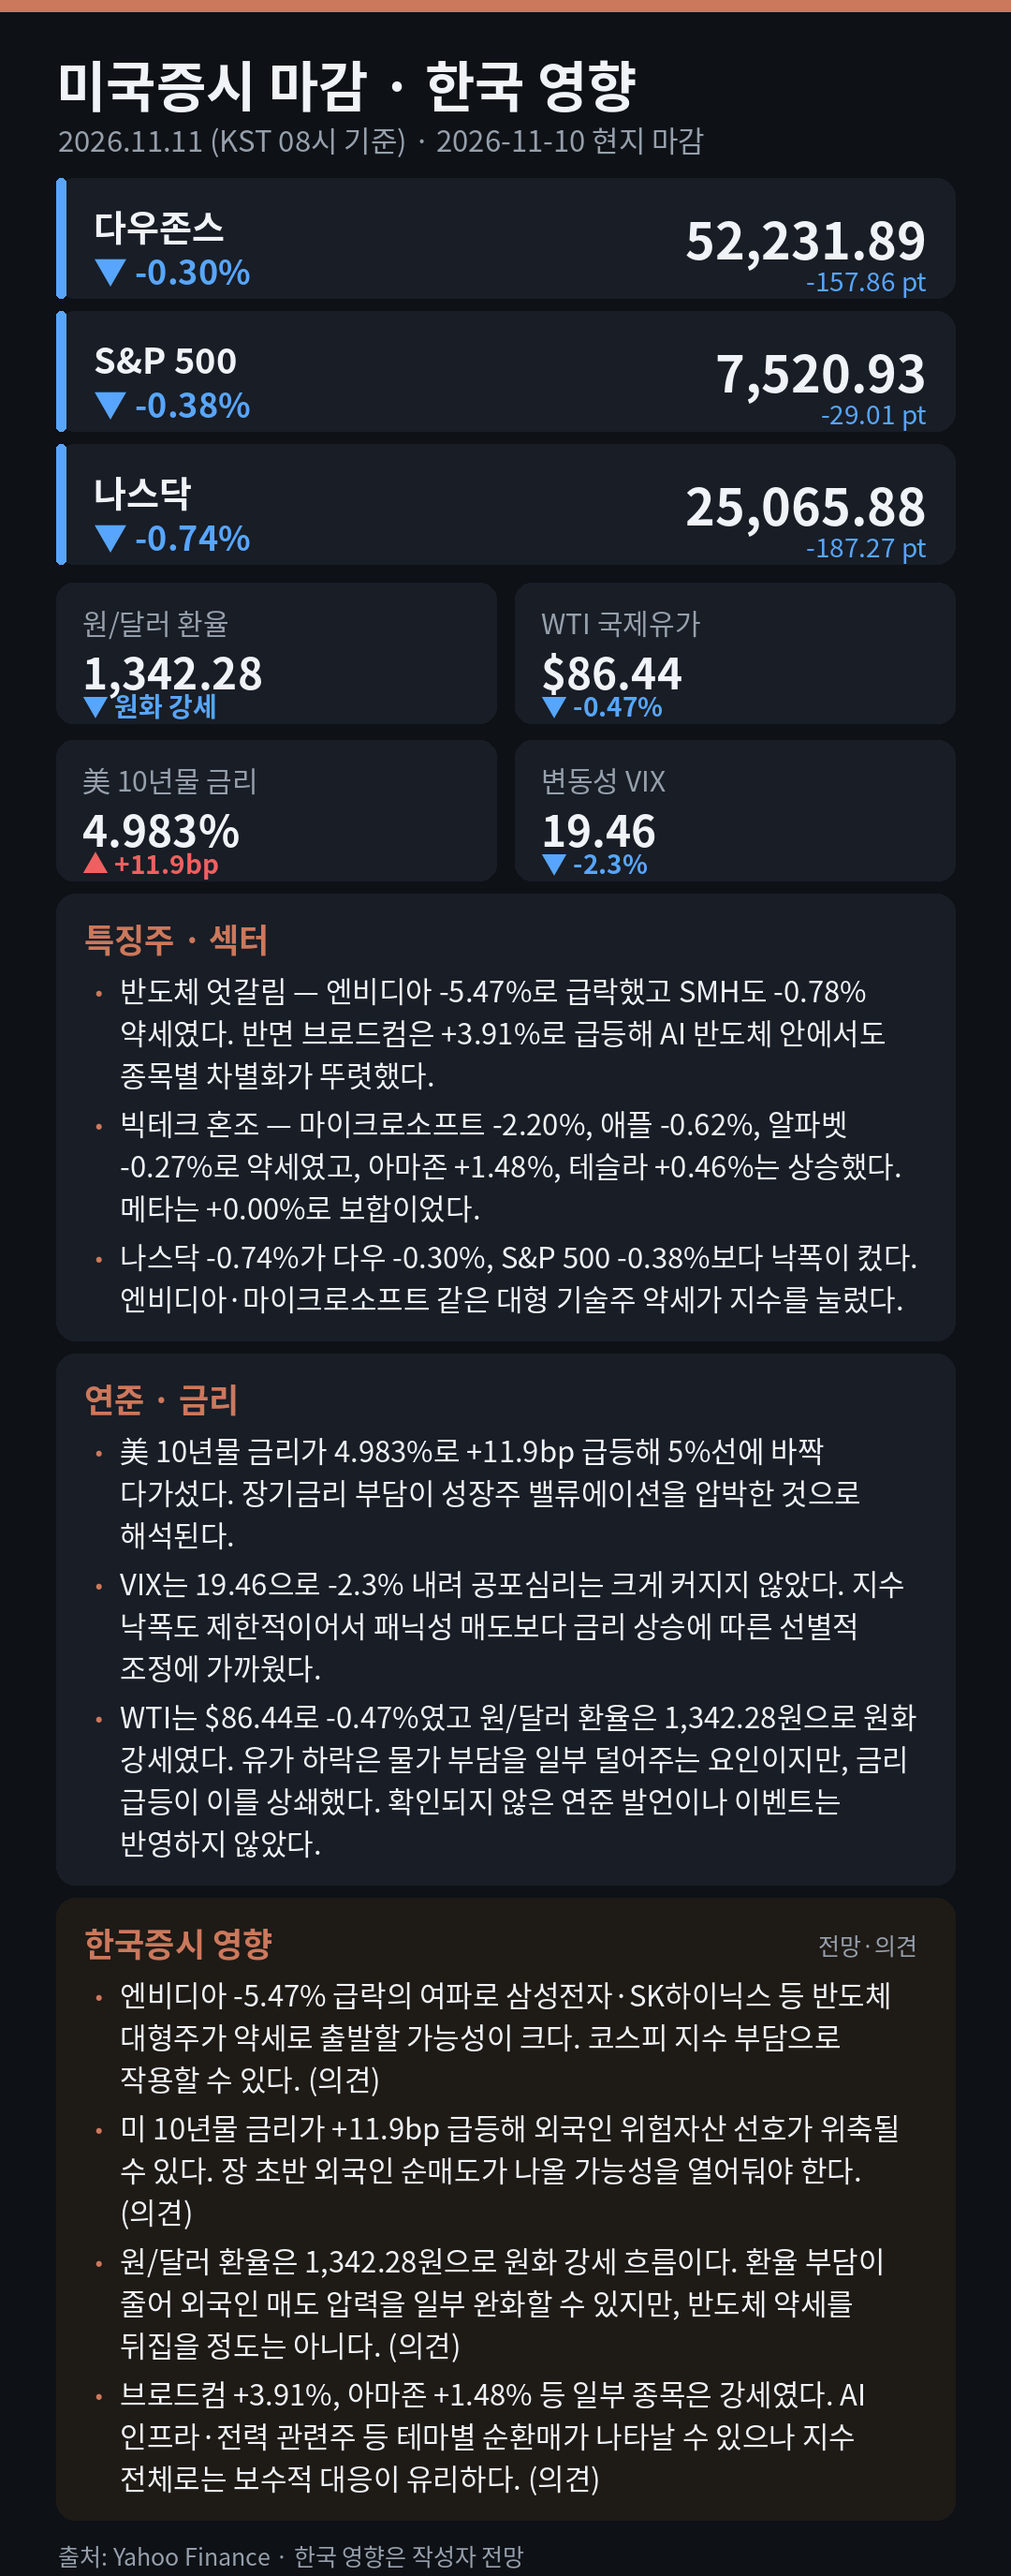
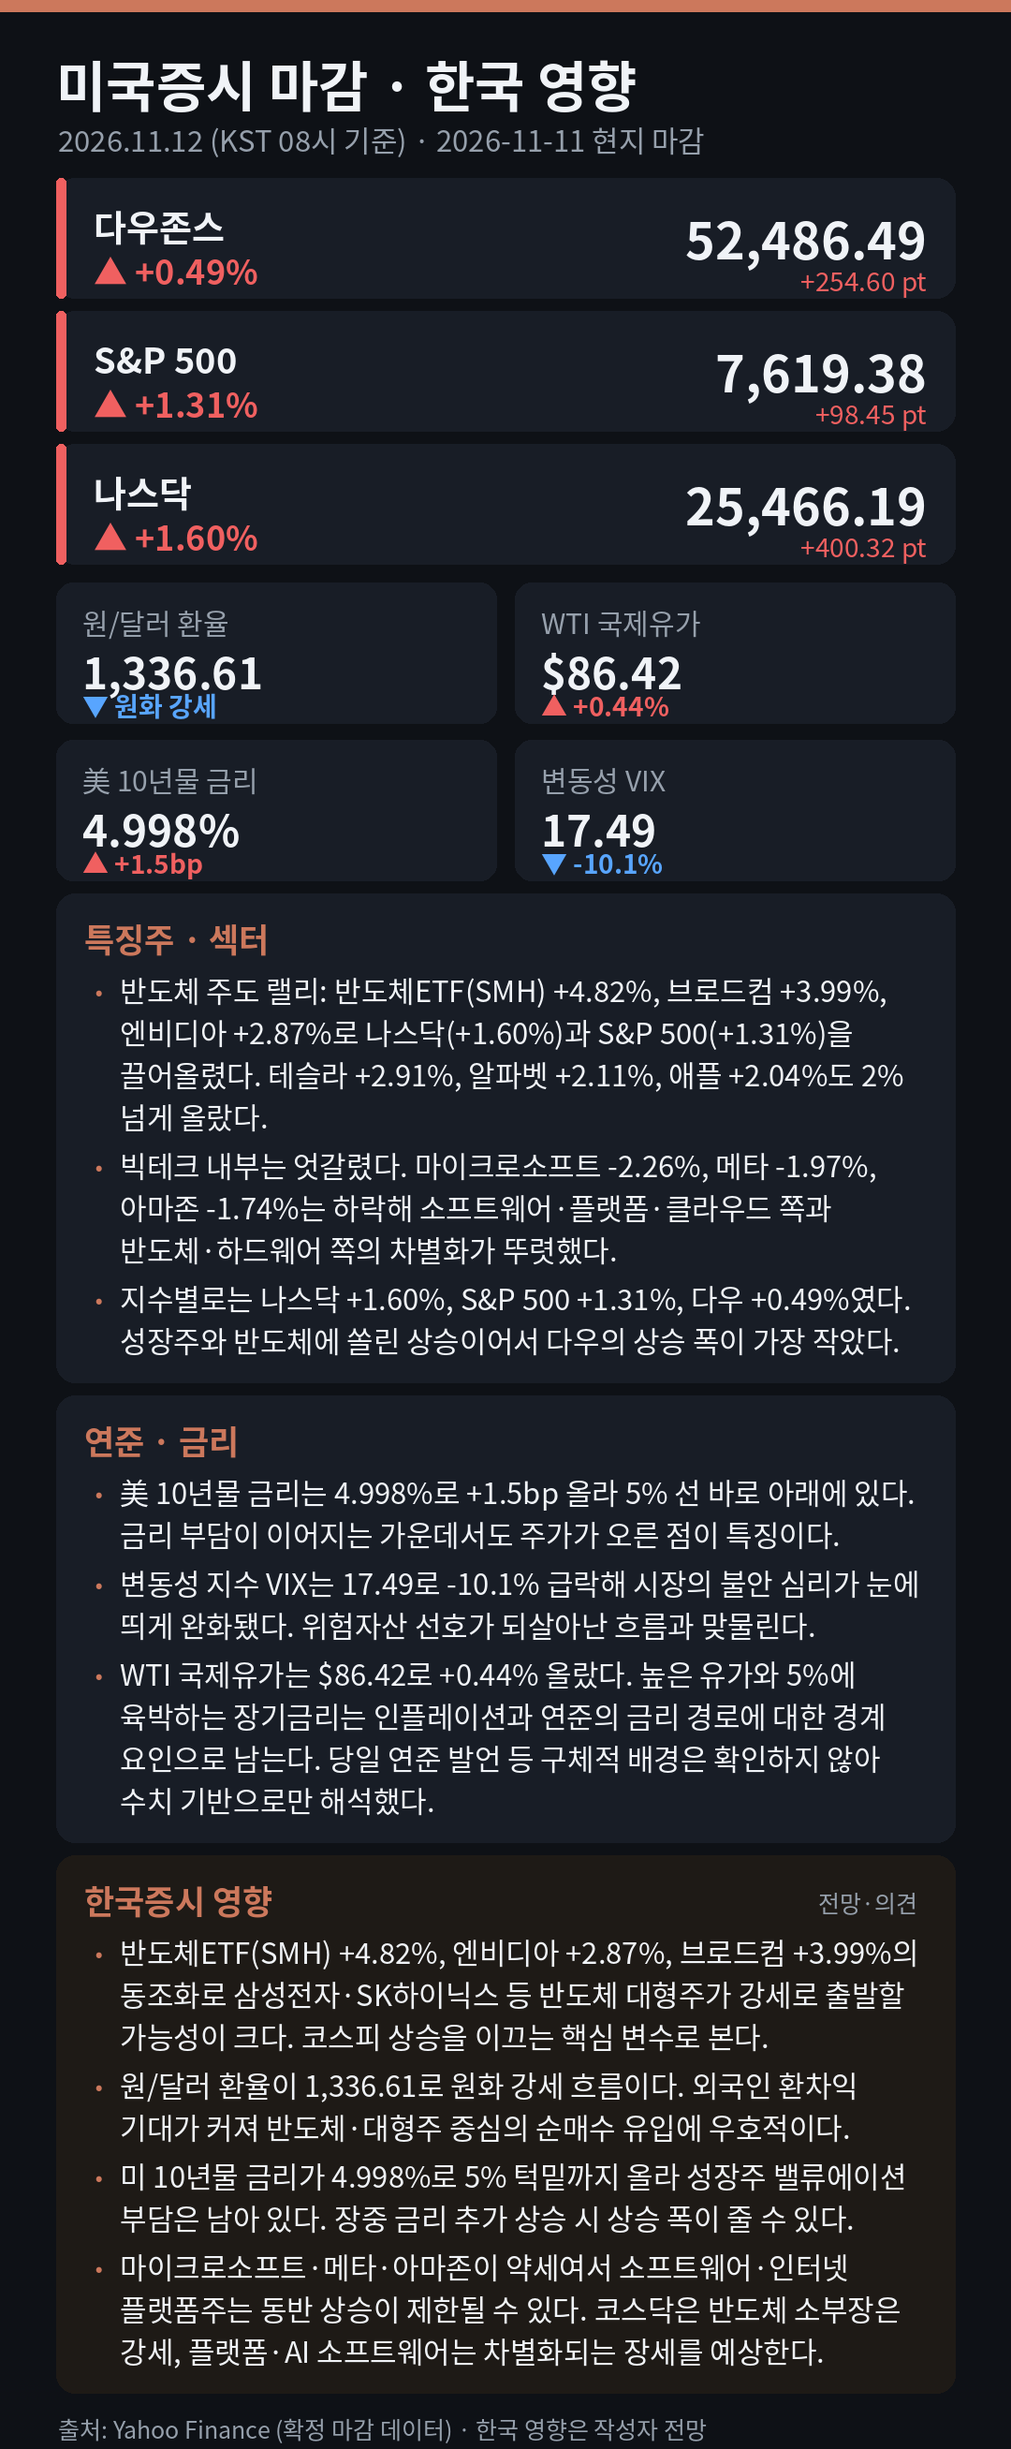
브리핑 2026-11-11 자동 발행

diff --git a/index.html b/index.html
@@ -14,8 +14,8 @@ a{color:#58a5ff;text-decoration:none} .s{color:#8a93a0;font-size:12px;float:righ
 </style></head><body><div class="wrap">
 <h1>미국증시 마감 브리핑</h1>
 <p class="sub">매일 아침(KST 08:02) 자동 업데이트 · 숫자는 Yahoo Finance 기준, 한국 영향은 전망</p>
-<img class="card" src="img/2026-11-10.png?v=2026-11-10" alt="2026-11-10 미국증시 마감"><p class="d">2026-11-10 현지 마감</p>
+<img class="card" src="img/2026-11-11.png?v=2026-11-11" alt="2026-11-11 미국증시 마감"><p class="d">2026-11-11 현지 마감</p>
 <h2>지난 브리핑</h2>
-<ul><li><a href="img/2026-11-10.png">2026-11-10</a> <span class="s">다우존스 -0.30% · S&P 500 -0.38% · 나스닥 -0.74%</span></li><li><a href="img/2026-11-09.png">2026-11-09</a> <span class="s">다우존스 +2.15% · S&P 500 +2.35% · 나스닥 +2.74%</span></li><li><a href="img/2026-11-06.png">2026-11-06</a> <span class="s">다우존스 -0.46% · S&P 500 +0.31% · 나스닥 +1.09%</span></li><li><a href="img/2026-11-05.png">2026-11-05</a> <span class="s">다우존스 -3.44% · S&P 500 -4.36% · 나스닥 -5.52%</span></li><li><a href="img/2026-11-04.png">2026-11-04</a> <span class="s">다우존스 +3.03% · S&P 500 +1.58% · 나스닥 +1.44%</span></li><li><a href="img/2026-11-03.png">2026-11-03</a> <span class="s">다우존스 -0.38% · S&P 500 +0.36% · 나스닥 +0.83%</span></li><li><a href="img/2026-11-02.png">2026-11-02</a> <span class="s">다우존스 +0.41% · S&P 500 -0.51% · 나스닥 -1.07%</span></li><li><a href="img/2026-10-30.png">2026-10-30</a> <span class="s">다우존스 -1.09% · S&P 500 -1.82% · 나스닥 -2.86%</span></li><li><a href="img/2026-10-29.png">2026-10-29</a> <span class="s">다우존스 -0.25% · S&P 500 -0.30% · 나스닥 -1.38%</span></li><li><a href="img/2026-10-28.png">2026-10-28</a> <span class="s">다우존스 +0.19% · S&P 500 +0.28% · 나스닥 +0.27%</span></li><li><a href="img/2026-10-27.png">2026-10-27</a> <span class="s">다우존스 +0.03% · S&P 500 +0.60% · 나스닥 +1.18%</span></li></ul>
+<ul><li><a href="img/2026-11-11.png">2026-11-11</a> <span class="s">다우존스 +0.49% · S&P 500 +1.31% · 나스닥 +1.60%</span></li><li><a href="img/2026-11-10.png">2026-11-10</a> <span class="s">다우존스 -0.30% · S&P 500 -0.38% · 나스닥 -0.74%</span></li><li><a href="img/2026-11-09.png">2026-11-09</a> <span class="s">다우존스 +2.15% · S&P 500 +2.35% · 나스닥 +2.74%</span></li><li><a href="img/2026-11-06.png">2026-11-06</a> <span class="s">다우존스 -0.46% · S&P 500 +0.31% · 나스닥 +1.09%</span></li><li><a href="img/2026-11-05.png">2026-11-05</a> <span class="s">다우존스 -3.44% · S&P 500 -4.36% · 나스닥 -5.52%</span></li><li><a href="img/2026-11-04.png">2026-11-04</a> <span class="s">다우존스 +3.03% · S&P 500 +1.58% · 나스닥 +1.44%</span></li><li><a href="img/2026-11-03.png">2026-11-03</a> <span class="s">다우존스 -0.38% · S&P 500 +0.36% · 나스닥 +0.83%</span></li><li><a href="img/2026-11-02.png">2026-11-02</a> <span class="s">다우존스 +0.41% · S&P 500 -0.51% · 나스닥 -1.07%</span></li><li><a href="img/2026-10-30.png">2026-10-30</a> <span class="s">다우존스 -1.09% · S&P 500 -1.82% · 나스닥 -2.86%</span></li><li><a href="img/2026-10-29.png">2026-10-29</a> <span class="s">다우존스 -0.25% · S&P 500 -0.30% · 나스닥 -1.38%</span></li><li><a href="img/2026-10-28.png">2026-10-28</a> <span class="s">다우존스 +0.19% · S&P 500 +0.28% · 나스닥 +0.27%</span></li></ul>
 <p class="foot">자동 생성 · Navis</p>
 </div></body></html>
